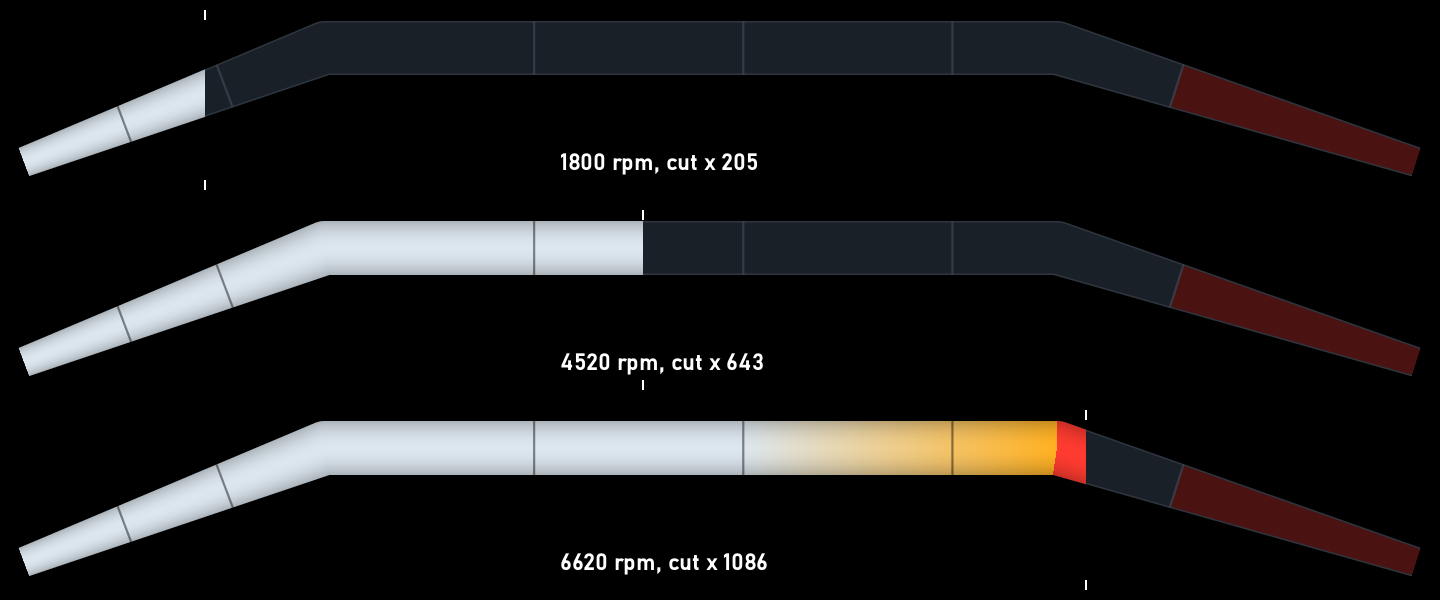
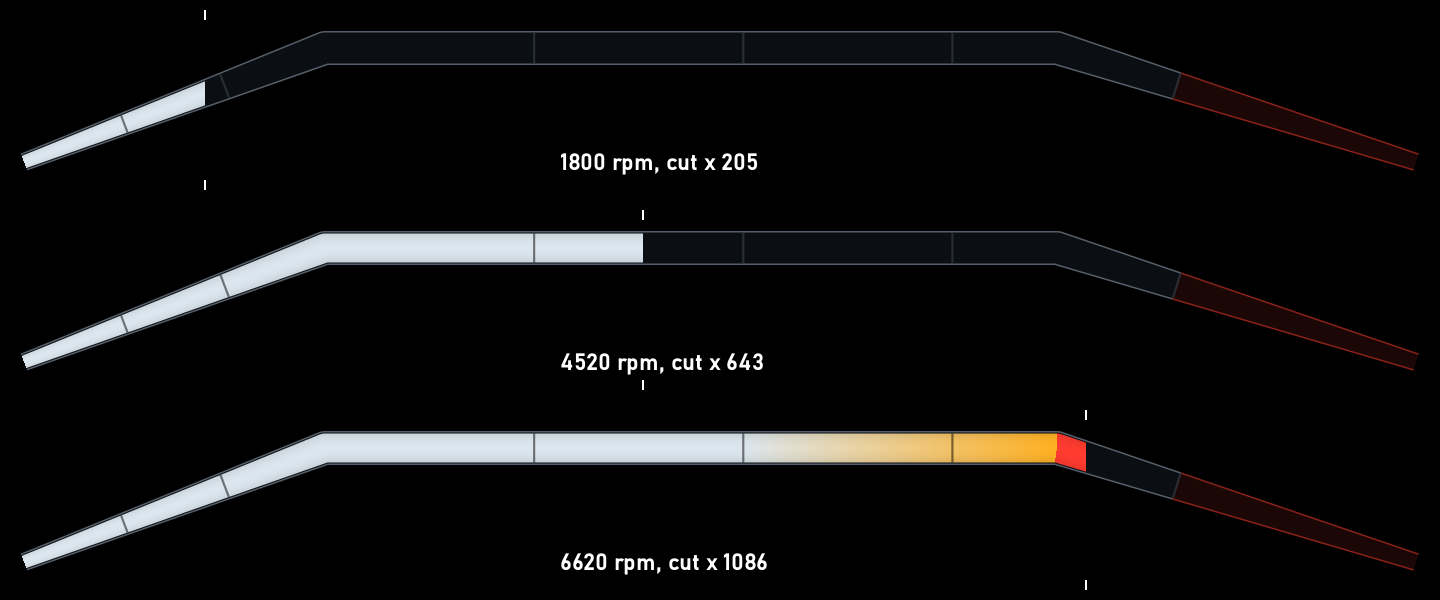
Telemetry tele9: delicate restyle after Audi's RS performance layout
Thinner rev strip with the numbers beside it, thin shift-light segments, no
gear glow, outlined notch, boost band between hairline circles, thin bars,
regular-weight values, lighter gear glyph. Painted strip drawn as an outlined
band. Checked in the simulator (audi-tt-8s-MHI2-drawing-sim).

diff --git a/ports/tt-8s-mu1462/hmi/src/local/tt/TeleLayout.java b/ports/tt-8s-mu1462/hmi/src/local/tt/TeleLayout.java
@@ -81,9 +81,9 @@ public final class TeleLayout {
     public static final int GREEN = 0x34C759FF;
     public static final int AMBER = 0xFFB020FF;
     public static final int RED = 0xFF3B30FF;
-    public static final int NOTCH = 0x2E0806FF;
+    public static final int NOTCH = 0x110606FF;
     public static final int NOTCH_IN = 0x4A0E0AFF;
-    public static final int NOTCH_HOT = 0x7A160EFF;
+    public static final int NOTCH_HOT = 0x40100CFF;
     public static final int NOTCH_HOT_IN = 0xB8241AFF;
     public static final int LED_OFF = 0x1E242BFF;
     public static final int BLUE = 0x2F7BFFFF;
@@ -122,8 +122,10 @@ public final class TeleLayout {
     // middle up to the shift point, the right slope from the shift point to barToRpm.
     static final int[] TP_X = {24, 325, 1057, 1416};
     static final int[] TP_Y = {266, 152, 152, 266};
-    static final int HALF_MIN = 15;
-    static final int HALF_MAX = 27;
+    // Delicate pass (2026-11-24, after Audi's RS performance layout: a thin outlined band, numbers
+    // beside it): the strip is 18..34 px, it was 30..54.
+    static final int HALF_MIN = 9;
+    static final int HALF_MAX = 17;
     private static final int SLOPE_PIECES = 10;
     private static final int MID_RPM = 3000;
     // Shift lights: LEDS_SIDE per side under the tab bar, lighting from both ends towards the
@@ -222,13 +224,9 @@ public final class TeleLayout {
         double len = tpLen();
         double r0 = l0 + l1; // start of the right slope = the shift point
 
-        // Glow behind the gear: layered translucent red, brighter while the shift cue flashes.
+        // No glow behind the gear (delicate pass: its layers showed as steps); the notch's fill
+        // flashes with the shift lights instead.
         boolean hot = over && blink;
-        int[] gw = {170, 135, 100};
-        int[] ga = {hot ? 0x22 : 0x10, hot ? 0x30 : 0x18, hot ? 0x48 : 0x22};
-        for (int i = 0; i < gw.length; i++)
-            quad(720 - gw[i], 176, 720 + gw[i], 176, 720 + gw[i] - 40, 352, 720 - gw[i] + 40, 352,
-                (RED & 0xFFFFFF00) | ga[i], true);
 
         // Shift lights above the strip, as wide as its fat middle, slanted like the housing's slopes,
         // lighting from both ends towards the middle: green, blue, red over the last
@@ -236,11 +234,11 @@ public final class TeleLayout {
         int lx0 = TP_X[1];
         int lx1 = TP_X[2];
         int mid = 24;
-        int lgap = 8;
+        int lgap = 6;
         int lw = ((lx1 - lx0 - mid) / 2 - (LEDS_SIDE - 1) * lgap) / LEDS_SIDE;
-        int lh = 22;
-        int ly = 98;
-        int sk = 8;
+        int lh = 8;
+        int ly = 110;
+        int sk = 4;
         for (int side = 0; side < 2; side++) {
             for (int i = 0; i < LEDS_SIDE; i++) {
                 int on = shiftRpm - (LEDS_SIDE - i) * LED_STEP;
@@ -249,9 +247,6 @@ public final class TeleLayout {
                 int x0 = side == 0 ? lx0 + i * (lw + lgap) : lx1 - lw - i * (lw + lgap);
                 int x1 = x0 + lw;
                 int t = side == 0 ? sk : -sk; // top edge shifted: "/" on the left, "\" on the right
-                int g = 6;
-                quad(x0 + t - g, ly - g, x1 + t + g, ly - g, x1 + g, ly + lh + g, x0 - g, ly + lh + g,
-                    (c & 0xFFFFFF00) | 0x50, lit);
                 quad(x0 + t, ly, x1 + t, ly, x1, ly + lh, x0, ly + lh, c, true);
             }
         }
@@ -327,13 +322,13 @@ public final class TeleLayout {
             }
         }
         // Shift point: a red cut across the strip where the fat middle ends.
-        bandOff(r0 - 1.5, r0 + 1.5, -HALF_MAX - 7, HALF_MAX + 7, -HALF_MAX - 7, HALF_MAX + 7, RED, true);
+        bandOff(r0 - 1, r0 + 1, -HALF_MAX - 4, HALF_MAX + 4, -HALF_MAX - 4, HALF_MAX + 4, RED, true);
         // Limiter range: red marks along the outer edge of the right slope.
         double sl = rpmToS(limitRpm);
         for (int i = 0; i < 5; i++) {
             double a = sl + (len - sl) * i / 5;
             double b = sl + (len - sl) * (i + 1) / 5 - 3;
-            bandOff(a, b, half(a) + 5, half(a) + 10, half(b) + 5, half(b) + 10, RED, limitRpm < barToRpm);
+            bandOff(a, b, half(a) + 3, half(a) + 5, half(b) + 3, half(b) + 5, RED, limitRpm < barToRpm);
         }
         for (int k = (barFromRpm + 999) / 1000; k * 1000 <= barToRpm; k++) {
             if (k == 0)
@@ -341,35 +336,22 @@ public final class TeleLayout {
             double sk0 = rpmToS(k * 1000);
             double th = 2 * half(sk0);
             boolean litK = link && rpm > k * 1000 && !(limit && !blink);
-            int nc = litK ? DARK_TEXT : k * 1000 >= redlineRpm ? RED : GREY;
-            if (th >= 28) {
-                int sz = (int) Math.min(32, th - 10);
-                double at = k * 1000 >= barToRpm ? sk0 - 14 : sk0 + 0.5; // the last one just inside the end
-                slopeText(at, 0.46 * sz, sz, true, CENTER, nc, Integer.toString(k), true);
-            } else {
-                slopeText(sk0 - 6, -(half(sk0) + 6), 18, true, CENTER, k * 1000 >= redlineRpm ? RED : GREY,
-                    Integer.toString(k), true);
-            }
+            int nc = k * 1000 >= redlineRpm ? RED : litK ? WHITE : GREY;
+            double at = k * 1000 >= barToRpm ? sk0 - 8 : sk0;
+            slopeText(at, -(half(sk0) + 6), 20, false, CENTER, nc, Integer.toString(k), true);
         }
 
         // Red line across with a soft glow, and the notch holding the gear: two layers for depth,
         // flashing with the shift lights from the shift point.
-        quad(GRID_X0, LINE_Y - 6, NOTCH_X0 + 4, LINE_Y - 6, NOTCH_X0 + 4, LINE_Y + 6, GRID_X0, LINE_Y + 6,
-            (RED & 0xFFFFFF00) | 0x30, true);
-        quad(NOTCH_X1 - 4, LINE_Y - 6, GRID_X1, LINE_Y - 6, GRID_X1, LINE_Y + 6, NOTCH_X1 - 4, LINE_Y + 6,
-            (RED & 0xFFFFFF00) | 0x30, true);
-        int ni = 12;
         quad(NOTCH_X0, LINE_Y, NOTCH_X1, LINE_Y, NOTCH_X1 - NOTCH_SLOPE, NOTCH_Y, NOTCH_X0 + NOTCH_SLOPE, NOTCH_Y,
             hot ? NOTCH_HOT : NOTCH, true);
-        quad(NOTCH_X0 + ni + 4, LINE_Y + 2, NOTCH_X1 - ni - 4, LINE_Y + 2, NOTCH_X1 - NOTCH_SLOPE - ni,
-            NOTCH_Y - ni, NOTCH_X0 + NOTCH_SLOPE + ni, NOTCH_Y - ni, hot ? NOTCH_HOT_IN : NOTCH_IN, true);
-        box(GRID_X0, LINE_Y - 1, NOTCH_X0 - GRID_X0 + 2, 3, RED, true);
-        box(NOTCH_X1 - 2, LINE_Y - 1, GRID_X1 - NOTCH_X1 + 2, 3, RED, true);
-        quad(NOTCH_X0 - 1, LINE_Y, NOTCH_X0 + 2, LINE_Y, NOTCH_X0 + NOTCH_SLOPE + 2, NOTCH_Y,
+        box(GRID_X0, LINE_Y, NOTCH_X0 - GRID_X0 + 1, 2, RED, true);
+        box(NOTCH_X1 - 1, LINE_Y, GRID_X1 - NOTCH_X1 + 1, 2, RED, true);
+        quad(NOTCH_X0 - 1, LINE_Y, NOTCH_X0 + 1, LINE_Y, NOTCH_X0 + NOTCH_SLOPE + 1, NOTCH_Y,
             NOTCH_X0 + NOTCH_SLOPE - 1, NOTCH_Y, RED, true);
-        quad(NOTCH_X1 - 2, LINE_Y, NOTCH_X1 + 1, LINE_Y, NOTCH_X1 - NOTCH_SLOPE + 1, NOTCH_Y,
-            NOTCH_X1 - NOTCH_SLOPE - 2, NOTCH_Y, RED, true);
-        box(NOTCH_X0 + NOTCH_SLOPE - 1, NOTCH_Y - 1, NOTCH_X1 - NOTCH_X0 - 2 * NOTCH_SLOPE + 2, 3, RED, true);
+        quad(NOTCH_X1 - 1, LINE_Y, NOTCH_X1 + 1, LINE_Y, NOTCH_X1 - NOTCH_SLOPE + 1, NOTCH_Y,
+            NOTCH_X1 - NOTCH_SLOPE - 1, NOTCH_Y, RED, true);
+        box(NOTCH_X0 + NOTCH_SLOPE - 1, NOTCH_Y - 1, NOTCH_X1 - NOTCH_X0 - 2 * NOTCH_SLOPE + 2, 2, RED, true);
         int gc = !link ? GREY : limit && !blink ? RED : WHITE;
         gearGlyph(720, 208, 104, gc);
 
@@ -395,32 +377,32 @@ public final class TeleLayout {
             double a = ba + (bb - ba) * j / hs;
             double b = ba + (bb - ba) * (j + 1) / hs - 1.2;
             boolean on = link && act > 0 && j * 100 / hs < act;
-            bandOff(a, b, half(a) + 34, half(a) + 44, half(b) + 34, half(b) + 44, on ? HALDEX : TRACK, true);
+            bandOff(a, b, half(a) + 36, half(a) + 40, half(b) + 36, half(b) + 40, on ? HALDEX : DIM, true);
             double m = (a + b) / 2;
-            bandOff(m - 2, m + 2, half(m) + 30, half(m) + 48, half(m) + 30, half(m) + 48, WHITE,
+            bandOff(m - 1, m + 1, half(m) + 32, half(m) + 44, half(m) + 32, half(m) + 44, WHITE,
                 ok(CH_HX_TARGET) && j == ti);
         }
         slopeIcon(ba + 4, half(ba) + 56, 32, TeleIcons.AWD, ICONC, true);
-        slopeText(ba + 50, half(ba + 50) + 54 + 0.82 * 42, 42, true, LEFT, vc,
+        slopeText(ba + 50, half(ba + 50) + 54 + 0.82 * 40, 40, false, LEFT, vc,
             ok(CH_HX_ACTUAL) ? percent(act) : "-", true);
 
         // Left of the notch: rpm, and the driver's inputs under it: accelerator (green) and brake
         // pressure (red, full bar at 100 bar).
         icon(GRID_X0 + 14, 210, 32, TeleIcons.TACH, ICONC, true);
-        text(NOTCH_X0 - 8, 202, 44, true, RIGHT, over ? RED : vc, ok(CH_RPM) ? Integer.toString(rpm) : "-", link);
+        text(NOTCH_X0 - 8, 204, 40, false, RIGHT, over ? RED : vc, ok(CH_RPM) ? Integer.toString(rpm) : "-", link);
         text(NOTCH_X0 - 8, 208, 34, true, RIGHT, AMBER, "NO LINK", !link);
         int ped = ok(CH_PEDAL) ? clamp(r(val[CH_PEDAL]), 0, 100) : 0;
         icon(GRID_X0 + 16, 254, 26, TeleIcons.PEDAL, ICONC, true);
-        bar(GRID_X0 + 54, 261, 126, 12, ped, 0, link ? PEDAL_FILL : GREY, -1);
-        text(NOTCH_X0 - 8, 255, 24, true, RIGHT, vc, ok(CH_PEDAL) ? percent(ped) : "-", true);
+        bar(GRID_X0 + 54, 265, 126, 4, ped, 0, link ? PEDAL_FILL : GREY, -1);
+        text(NOTCH_X0 - 8, 255, 24, false, RIGHT, vc, ok(CH_PEDAL) ? percent(ped) : "-", true);
         // Brake pressure smoothed (EMA at the 30 Hz tick) with a 2 bar dead band: the sensor reads
         // about 1 bar off the brakes (road test 2026-11-23).
         double rawBrake = ok(CH_BRAKE) ? Math.max(0, val[CH_BRAKE] / 1000.0) : 0;
         brakeSm += 0.3 * (rawBrake - brakeSm);
         int brk = brakeSm < 2.0 ? 0 : clamp((int) Math.round(brakeSm), 0, 999);
         icon(GRID_X0 + 16, 288, 26, TeleIcons.BRAKE, brk > 0 && link ? BRAKE_FILL : ICONC, true);
-        bar(GRID_X0 + 54, 295, 126, 12, Math.min(brk, 100), 0, link ? BRAKE_FILL : GREY, -1);
-        text(NOTCH_X0 - 8, 289, 24, true, RIGHT, vc, ok(CH_BRAKE) ? withUnit(brk, " bar") : "-", true);
+        bar(GRID_X0 + 54, 299, 126, 4, Math.min(brk, 100), 0, link ? BRAKE_FILL : GREY, -1);
+        text(NOTCH_X0 - 8, 289, 24, false, RIGHT, vc, ok(CH_BRAKE) ? withUnit(brk, " bar") : "-", true);
 
         // Right of the notch: boost as a turbo-style arc. Segments sweep from vacuum (steel blue)
         // through zero into boost, warming amber -> orange -> red, with a glow while on boost; a white
@@ -441,22 +423,25 @@ public final class TeleLayout {
             double a0 = 180 - 180.0 * i / segs + 0.5;
             double a1 = 180 - 180.0 * (i + 1) / segs - 0.5;
             int v = BOOST_MIN + (BOOST_MAX - BOOST_MIN) * (2 * i + 1) / (2 * segs);
-            arcSeg(acx, acy, 84, 112, a0, a1, v < 0 ? VAC_FILL : boostColour(v), true);
+            arcSeg(acx, acy, 98, 108, a0, a1, v < 0 ? VAC_FILL : boostColour(v), true);
         }
         double frac = link ? clamp(kpa - BOOST_MIN, 0, BOOST_MAX - BOOST_MIN) / (double) (BOOST_MAX - BOOST_MIN) : 0;
         double phi = 180 + 180 * frac; // clockwise screen degrees from the right, where the fill ends
         coverQuarter(acx, acy, phi);
         coverQuarter(acx, acy, phi + 90);
+        // the band's edges: hairline circles, their lower halves hidden with the cover's
+        icon(acx - 111, acy - 111, 222, TeleIcons.RING, LINE, true);
+        icon(acx - 95, acy - 95, 190, TeleIcons.RING, LINE, true);
         box(acx - 122, acy + 1, 244, 126, BG, true);
         double az = 180 - 180.0 * (0 - BOOST_MIN) / (BOOST_MAX - BOOST_MIN);
-        arcSeg(acx, acy, 78, 118, az + 0.8, az - 0.8, WHITE, true);
+        arcSeg(acx, acy, 92, 114, az + 0.5, az - 0.5, WHITE, true);
         // Peak marker: one fixed mark per segment, the one holding the peak shows.
         int pi = Math.min(segs - 1, (clamp(peakKpa, BOOST_MIN, BOOST_MAX) - BOOST_MIN) * segs / (BOOST_MAX - BOOST_MIN));
         for (int i = 0; i < segs; i++) {
             double am = 180 - 180.0 * (i + 0.5) / segs;
-            arcSeg(acx, acy, 108, 124, am + 1.2, am - 1.2, WHITE, link && peakKpa > 0 && i == pi);
+            arcSeg(acx, acy, 94, 116, am + 0.7, am - 0.7, WHITE, link && peakKpa > 0 && i == pi);
         }
-        text(acx, 250, 50, true, CENTER, boosting ? WHITE : vc, ok(CH_BOOST) ? boost(kpa) : "-", true);
+        text(acx, 250, 48, false, CENTER, boosting ? WHITE : vc, ok(CH_BOOST) ? boost(kpa) : "-", true);
         icon(acx - 42, 302, 22, TeleIcons.TURBO, boosting ? BOOST_FILL : ICONC, true);
         text(acx - 14, 304, 16, true, LEFT, GREY, boostPsi ? "PSI" : "BAR", true);
         text(acx - 100, 334, 14, true, CENTER, GREY, boostPsi ? "-14" : "-1", true);
@@ -467,7 +452,7 @@ public final class TeleLayout {
         for (int t = 0; t < T_CH.length; t++) {
             int cx0 = GRID_X0 + t * cw;
             if (t > 0)
-                box(cx0 - 1, GRID_Y + 2, 2, 28, LINE, true);
+                box(cx0, GRID_Y + 4, 1, 24, LINE, true);
             tempCell(t, cx0 + 12, cx0 + cw - 12, GRID_Y, 30, 32, rpm);
         }
     }
@@ -483,7 +468,7 @@ public final class TeleLayout {
 
     /** The boost arc's cover: a quarter ring in the track colour turned clockwise by deg. */
     private void coverQuarter(int cx, int cy, double deg) {
-        int i = add(ICON, cx, cy, 116, 116, TRACK, true);
+        int i = add(ICON, cx, cy, 116, 116, BG, true);
         size[i] = TeleIcons.ARCQ;
         rot[i] = (float) deg;
     }
@@ -526,7 +511,7 @@ public final class TeleLayout {
 
     /** Horizontal bar: track, fill from the from-percent to pct, optional tick at tickPct. */
     private void bar(int x0, int y0, int bw, int bh, int pct, int fromPct, int c, int tickPct) {
-        box(x0, y0, bw, bh, TRACK, true);
+        box(x0, y0, bw, bh, DIM, true);
         int a = Math.min(fromPct, pct);
         int b = Math.max(fromPct, pct);
         box(x0 + bw * a / 100, y0, bw * (b - a) / 100, bh, c, b > a);
@@ -635,12 +620,12 @@ public final class TeleLayout {
         int act = ok(CH_HX_ACTUAL) ? clamp(r(val[CH_HX_ACTUAL]), 0, 100) : 0;
         int tgt = ok(CH_HX_TARGET) ? clamp(r(val[CH_HX_TARGET]), 0, 100) : 0;
         icon(x0, 118, 28, TeleIcons.AWD, ICONC, true);
-        bar(x0 + 40, 124, 240, 16, act, 0, link ? HALDEX : GREY, -1);
-        box(x0 + 40 + 240 * tgt / 100 - 2, 119, 4, 26, WHITE, ok(CH_HX_TARGET));
-        text(x1, 116, 30, true, RIGHT, vc, ok(CH_HX_ACTUAL) ? percent(act) : "-", true);
+        bar(x0 + 40, 129, 240, 6, act, 0, link ? HALDEX : GREY, -1);
+        box(x0 + 40 + 240 * tgt / 100 - 1, 124, 2, 16, WHITE, ok(CH_HX_TARGET));
+        text(x1, 116, 30, false, RIGHT, vc, ok(CH_HX_ACTUAL) ? percent(act) : "-", true);
 
         // Preset and mode under the gear; Wi-Fi warning beside them while the link is slow or lost.
-        text(x0, 336, 26, true, LEFT, link ? PRESET : GREY, presetName(), true);
+        text(x0, 336, 26, false, LEFT, link ? PRESET : GREY, presetName(), true);
         text(x0 + 2, 364, 14, true, LEFT, GREY, presetMode(), true);
         boolean slow = link && rateHz >= 0 && rateHz < 10;
         icon(200, 340, 22, TeleIcons.WIFI, AMBER, !link || slow);
@@ -659,8 +644,8 @@ public final class TeleLayout {
         int zero = (0 - BOOST_MIN) * 100 / (BOOST_MAX - BOOST_MIN);
         int pos = clamp((kpa - BOOST_MIN) * 100 / (BOOST_MAX - BOOST_MIN), 0, 100);
         icon(x0, 396, 28, TeleIcons.TURBO, boosting ? BOOST_FILL : ICONC, true);
-        bar(x0 + 40, 402, 240, 18, pos, zero, !link ? GREY : kpa >= 0 ? boostColour(kpa) : VAC_FILL, zero);
-        text(x1 - 34, 394, 30, true, RIGHT, boosting ? WHITE : vc, ok(CH_BOOST) ? boost(kpa) : "-", true);
+        bar(x0 + 40, 408, 240, 6, pos, zero, !link ? GREY : kpa >= 0 ? boostColour(kpa) : VAC_FILL, zero);
+        text(x1 - 34, 394, 30, false, RIGHT, boosting ? WHITE : vc, ok(CH_BOOST) ? boost(kpa) : "-", true);
         text(x1, 406, 13, true, RIGHT, GREY, boostPsi ? "PSI" : "BAR", true);
     }
 
@@ -680,7 +665,7 @@ public final class TeleLayout {
                 c = COLD;
         }
         icon(x0, yy, is, T_ICON[t], c == WHITE || c == GREY ? ICONC : c, true);
-        text(x1, yy + (is - vs) / 2, vs, true, RIGHT, c, v, true);
+        text(x1, yy + (is - vs) / 2, vs, false, RIGHT, c, v, true);
     }
 
     /** Haldex lock bar with target tick at (x0, y0); actual percent right-aligned at (rx, ry). */

diff --git a/ports/tt-8s-mu1462/hmi/src/local/tt/TeleStrip.java b/ports/tt-8s-mu1462/hmi/src/local/tt/TeleStrip.java
@@ -107,11 +107,13 @@ public final class TeleStrip {
                 for (int k = 0; k < nt; k++) {
                     tick = Math.max(tick, clamp01(1.6 - Math.abs(bs - ticks[k])));
                 }
-                // Track: dark body (red zone past the redline), a lighter hairline along the edges,
-                // light ticks.
-                int tc = bs >= sRed ? TeleLayout.REDZONE : TeleLayout.TRACK;
-                tc = TeleLayout.mix(tc, TeleLayout.EDGE, (float) clamp01(2.0 - inside));
-                tc = TeleLayout.mix(tc, TeleLayout.LINE, (float) (tick * 0.8));
+                // Track: an outlined band (after Audi's RS performance layout): a near-black body and
+                // a 1.5 px hairline edge, red past the redline; faint ticks.
+                boolean red = bs >= sRed;
+                int tc = red ? 0x1A0706FF : 0x0B0E12FF;
+                int edge = red ? 0x8A2219FF : 0x56606BFF;
+                tc = TeleLayout.mix(tc, edge, (float) clamp01(2.0 - inside));
+                tc = TeleLayout.mix(tc, TeleLayout.LINE, (float) (tick * 0.6 * clamp01(inside - 1.5)));
                 p.track[py * W + px] = (a << 24) | (tc >>> 8);
                 // Lit: cool white, warming to amber over the last 1500 rpm before the shift point,
                 // red past it; a soft tube shading across, darker ticks.
@@ -120,10 +122,15 @@ public final class TeleStrip {
                 int lc = bs >= sShift ? TeleLayout.RED
                     : rpm <= warm ? TeleLayout.STRIP_LO
                     : TeleLayout.mix(TeleLayout.STRIP_LO, TeleLayout.AMBER, (rpm - warm) / 1500f);
+                // inset 2.5 px so the hairline edge stays around the fill
+                double litCov = clamp01(hw - 2.5 - perp + 0.5) * (over > 0 ? clamp01(0.5 - over - 2.5) : 1);
+                if (litCov <= 0) {
+                    continue;
+                }
                 double k = perp / hw;
-                lc = TeleLayout.mix(lc, TeleLayout.BG, (float) (0.22 * k * k));
-                lc = TeleLayout.mix(lc, TeleLayout.BG, (float) (tick * 0.45));
-                p.lit[py * W + px] = (a << 24) | (lc >>> 8);
+                lc = TeleLayout.mix(lc, TeleLayout.BG, (float) (0.12 * k * k));
+                lc = TeleLayout.mix(lc, TeleLayout.BG, (float) (tick * 0.5));
+                p.lit[py * W + px] = ((int) Math.round(litCov * 255) << 24) | (lc >>> 8);
             }
         }
         p.paintMs = System.currentTimeMillis() - t0;

diff --git a/ports/tt-8s-mu1462/hmi/src/local/tt/TeleIcons.java b/ports/tt-8s-mu1462/hmi/src/local/tt/TeleIcons.java
@@ -24,7 +24,9 @@ public final class TeleIcons {
      * 83..116 px when drawn 116 px). Turned about that corner it hides a 90 degree stretch of the arc.
      */
     public static final int ARCQ = 11;
-    public static final int COUNT = 12;
+    /** A hairline circle filling the picture (line 1 % of the size): the boost arc's edges. */
+    public static final int RING = 12;
+    public static final int COUNT = 13;
 
     // Shape ops. CAP x0 y0 x1 y1 r (thick line, round ends) | CIRC x y r | RECT x0 y0 x1 y1 |
     // POLY n x0 y0 ... | CUT_CIRC x y r | CUT_RECT x0 y0 x1 y1 | CUT_POLY n x0 y0 ...
@@ -82,6 +84,8 @@ public final class TeleIcons {
             CAP, 50, 36, 50, 52, 4.5f, CIRC, 50, 63, 4.5f},
         // ARCQ: quarter ring about the top-left corner
         {CIRC, 0, 0, 100, CUT_CIRC, 0, 0, 71.5f},
+        // RING: hairline circle
+        {CIRC, 50, 50, 50, CUT_CIRC, 50, 50, 49},
     };
 
     /**
@@ -129,7 +133,7 @@ public final class TeleIcons {
                 ops[k * 6 + 2] = pts[k * 2 + 1];
                 ops[k * 6 + 3] = pts[k * 2 + 2];
                 ops[k * 6 + 4] = pts[k * 2 + 3];
-                ops[k * 6 + 5] = 8.5f;
+                ops[k * 6 + 5] = 5.5f; // light strokes, like the stock cockpit's numerals
             }
             GLYPHS[i] = ops;
         }

diff --git a/ports/tt-8s-mu1462/wiki/Telemetry.md b/ports/tt-8s-mu1462/wiki/Telemetry.md
@@ -165,7 +165,21 @@ Build `ttlink` (WSL, toolchain image from [Build and test](Build-and-test.md)):
 wsl -d Ubuntu-24.04 -u root -- sh -c 'cd /mnt/c/.../gauges/headunit && docker run --rm -v "$PWD:/w" -w /w mhi2-qnx65-armv7-public:4.9 arm-unknown-nto-qnx6.5.0eabi-gcc -O2 -std=gnu99 -mfloat-abi=softfp ttlink.c -lsocket -o out/ttlink'
 ```
 
-## Autocross view on the head unit (tt-zoom tele8 probe)
+## Autocross view on the head unit (tt-zoom tele9)
+
+User 2026-11-24: make the UI more delicate, after screenshots of the stock cockpit. Reference: Audi's
+RS performance layout (a retrofit company's photo of a real cluster): a thin outlined rev band with
+the numbers beside it, 7 and 8 in red; Power and Torque as thin rings with a small red tick and light
+numerals; hairline dividers; red only as an accent. tele9 (also has the tele8 probe):
+- Rev strip 18..34 px (was 30..54), numbers 1..8 beside it in light weight (white once passed, red
+  from the red line). Painted strip (sim, probe): an outlined band, the fill inset inside a 1.5 px edge.
+- Shift lights 8 px slanted segments, no halo. No glow behind the gear; the notch is a red outline
+  whose dark fill flashes. Red line and notch edges 2 px.
+- Boost: 10 px coloured band between two hairline circles (TeleIcons RING); the turned cover is black.
+- Bars 4..6 px, values in the regular (not bold) font; gear glyph strokes 5.5 (were 8.5).
+Constants to go back: HALF_MIN/HALF_MAX in TeleLayout.
+
+### Earlier: tele8 probe
 
 tele7 on the car (photo 2026-11-23, 6620 rpm): the strip still glitched. A black notch where each
 slope meets the flat middle (every piece is cut square to its own direction, so the cuts don't meet
@@ -195,7 +209,7 @@ and a readout of the clip's screen rectangle. Modes: `on`/`grp` clip on a group 
 `tele stats` line carries the same readout. PC preview: `gauges/tools/StripPreview.java` ->
 `docs/strip-probe-preview.png`.
 
-PC simulator: separate private repo `audi-tt-8s-tele-sim` (`sh run.sh`, `--live` for UDP from
+PC simulator: repo [audi-tt-8s-MHI2-drawing-sim](https://github.com/Tristar10/audi-tt-8s-MHI2-drawing-sim) (`sh run.sh`, `--live` for UDP from
 `gauge-send.py` or OpenHaldex). It runs TeleLayout, TeleIcons, TeleStrip and TeleLink as they are
 here (copied with its `sync.sh`; this branch stays the source of truth) and draws the slots with
 AWT at the car's tick rate over the cockpit photos: demo or live data, painted or pieces strip,
